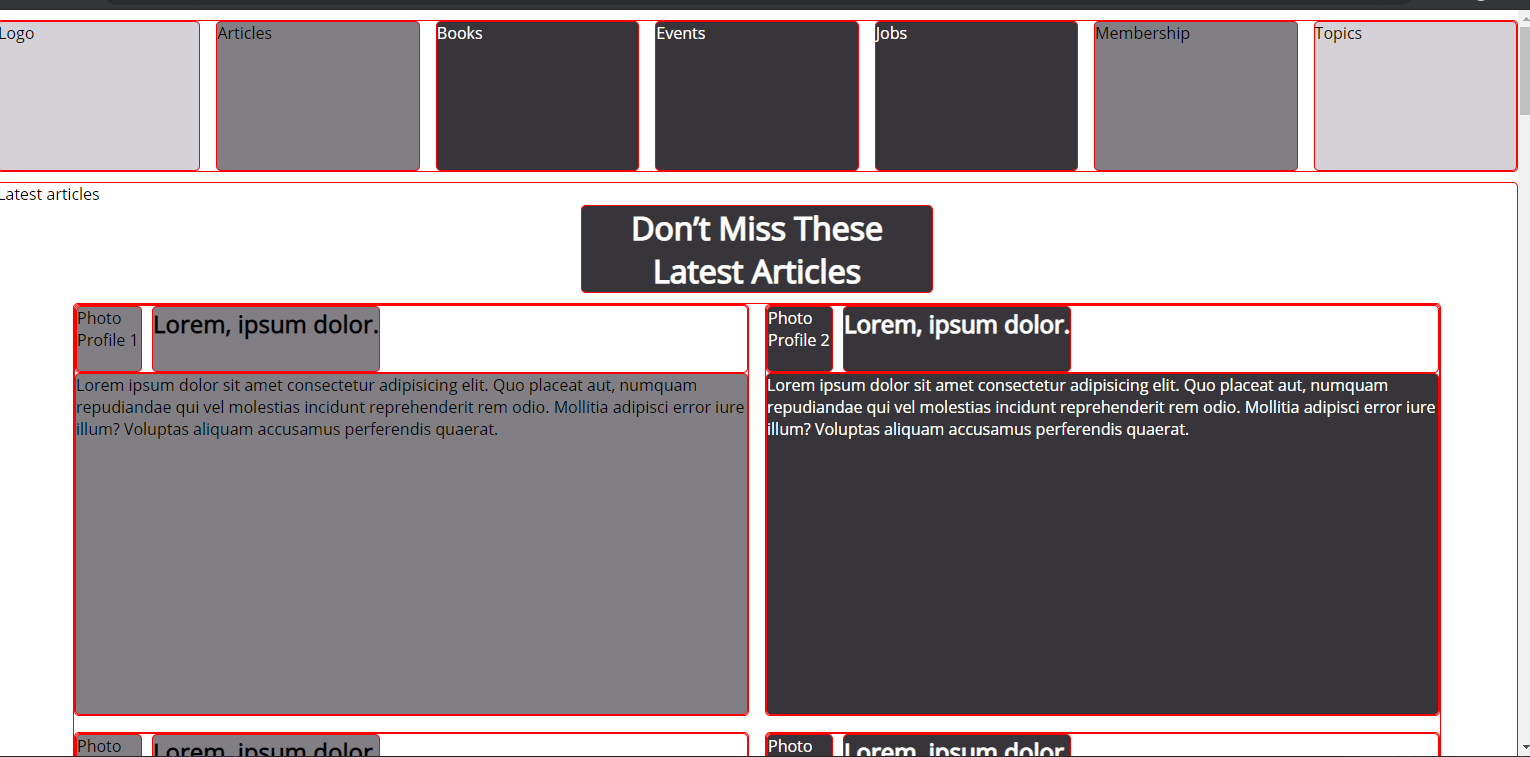
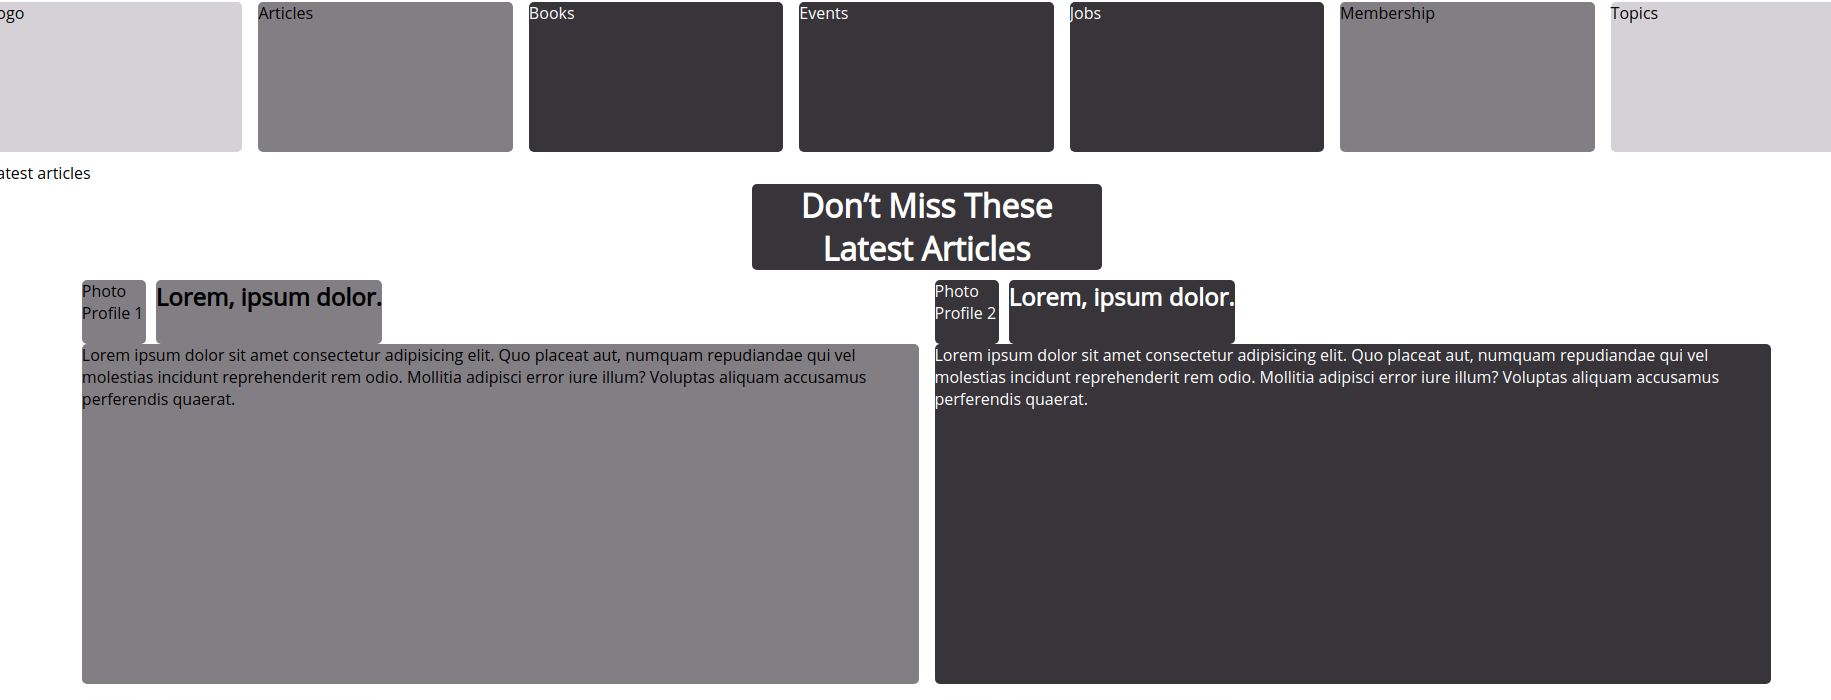
Deleting red borders

Changed region(s): [[0.0, 0.0, 1.0, 1.0]]

diff --git a/assets/css/style.css b/assets/css/style.css
@@ -9,12 +9,10 @@ body {
 }
 
 div {
-  border: 1px solid red;
   border-radius: 5px;
 }
 
 article {
-  border: 1px solid red;
   border-radius: 5px;
 }
 
